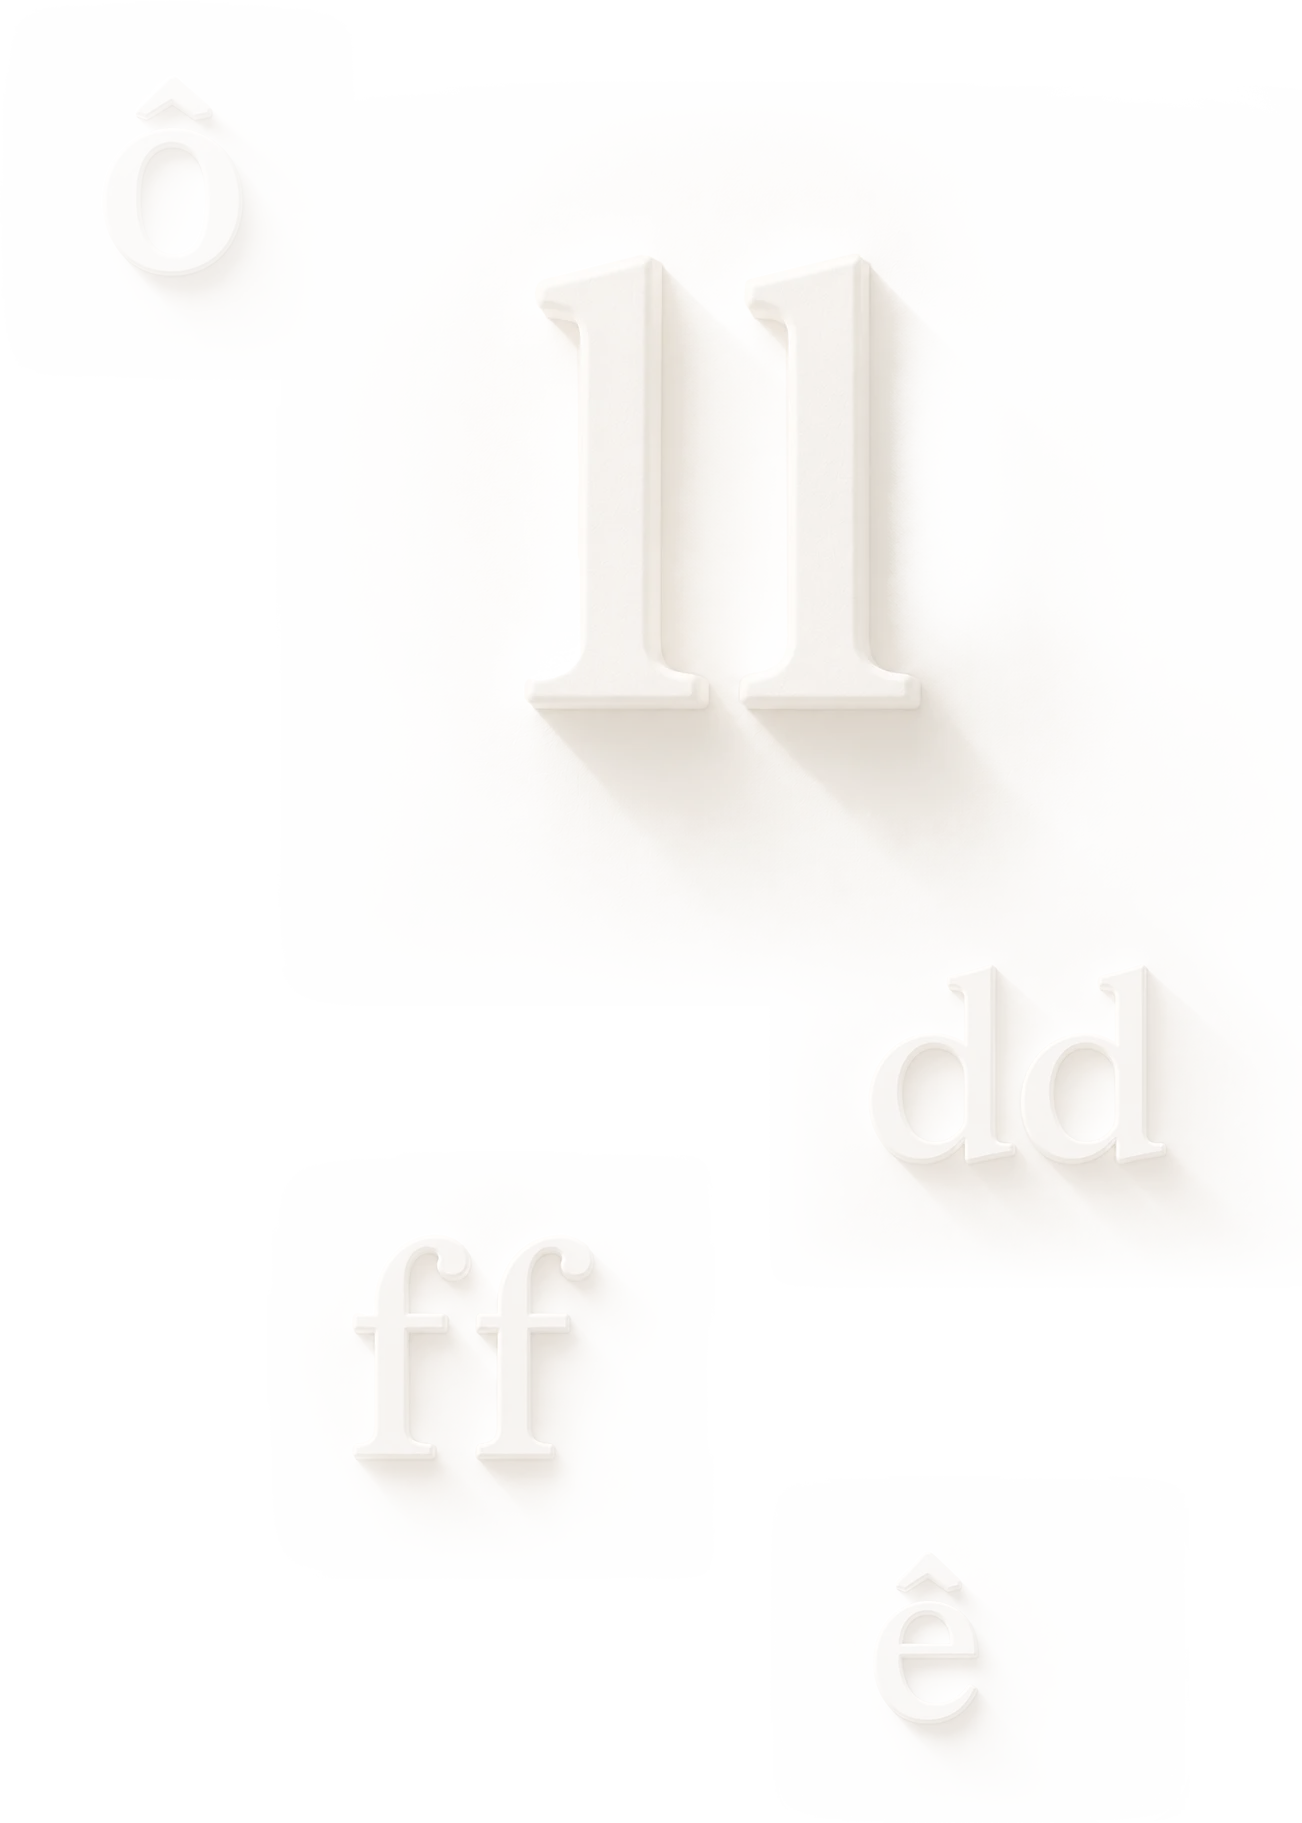
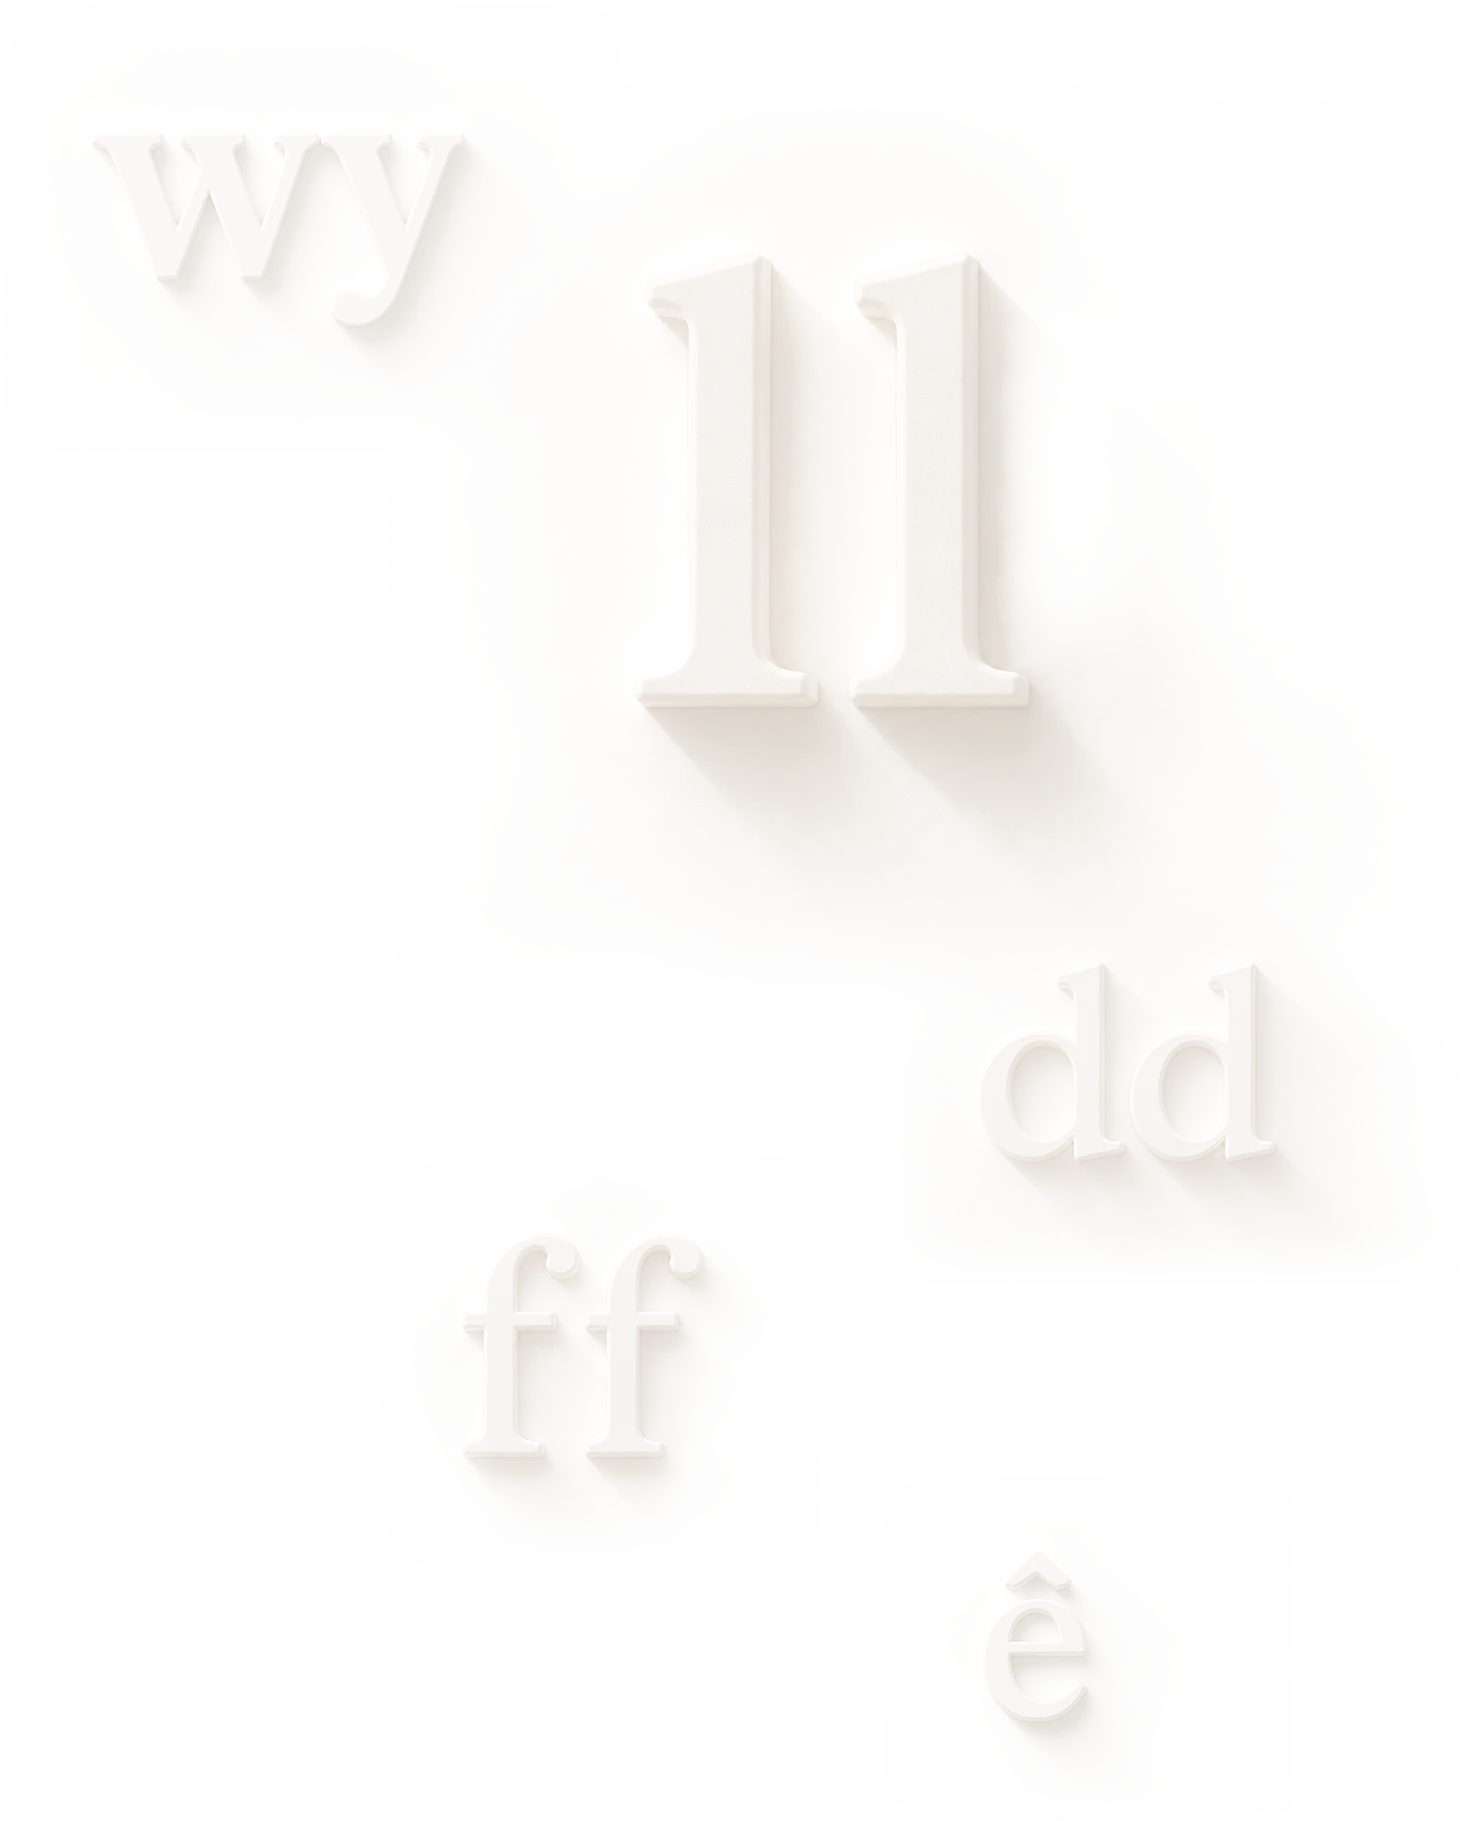
Update homepage heading and mobile background

diff --git a/src/styles.css b/src/styles.css
@@ -1601,7 +1601,24 @@
 
 .home-shell .home-heading-first{
   font-size:52px;
-  line-height:1.16;
+  line-height:1.08;
+}
+
+.home-heading-primary-line,
+.home-heading-method-line{
+  display:block;
+  color:inherit;
+  font-weight:900;
+}
+
+.home-heading-primary-line{
+  white-space:nowrap;
+}
+
+.home-heading-method-line{
+  margin-top:.04em;
+  font-size:.94em;
+  letter-spacing:-.025em;
 }
 
 .home-support{
@@ -1809,6 +1826,14 @@
   }
 }
 
+@media (min-width:521px) and (max-width:899px){
+  .home-copy .home-heading-first{
+    font-size:clamp(34px,5.7vw,46px)!important;
+    line-height:1.07;
+    letter-spacing:-.048em;
+  }
+}
+
 @media (max-width:520px){
   .homepage-utility{
     top:calc(18px + env(safe-area-inset-top));
@@ -1890,10 +1915,14 @@
   }
 
   .home-copy .home-heading-first{
-    font-size:37px!important;
+    font-size:30px!important;
     font-weight:900;
-    line-height:1.16;
+    line-height:1.08;
     letter-spacing:-.05em;
+  }
+
+  .home-heading-primary-line{
+    white-space:normal;
   }
 
   .home-support{
@@ -2008,7 +2037,7 @@
   }
 
   .home-copy .home-heading-first{
-    font-size:34px!important;
+    font-size:28px!important;
   }
 
   .home-shell-returning .home-heading,
@@ -2026,6 +2055,17 @@
 
   .home-footer{
     font-size:14px;
+  }
+}
+
+@media (max-width:340px){
+  .home-copy .home-heading-first{
+    font-size:26px!important;
+  }
+
+  .home-heading-primary-line{
+    white-space:normal;
+    text-wrap:balance;
   }
 }
 
@@ -5406,7 +5446,35 @@
   position:relative;
   isolation:isolate;
   overflow-x:clip;
-  background:#f6f5f2;
+  background-color:#f6f5f2;
+  background-image:
+    linear-gradient(rgba(246,245,242,.84),rgba(246,245,242,.84)),
+    url('/background-texture.webp');
+  background-repeat:repeat;
+  background-size:auto;
+  background-position:top left;
+}
+
+.public-app-with-shared-background{
+  position:relative;
+  isolation:isolate;
+  overflow-x:clip;
+  background-color:#f6f5f2;
+  background-image:
+    linear-gradient(rgba(246,245,242,.84),rgba(246,245,242,.84)),
+    url('/background-texture.webp');
+  background-repeat:repeat;
+  background-size:auto;
+  background-position:top left;
+}
+
+.public-app-with-shared-background .screen-stage{
+  position:relative;
+  z-index:1;
+}
+
+.public-app.public-app-with-shared-background :is(.app-bg,.practice-app,.end-bg,.how-page){
+  background:transparent;
 }
 
 .home-background-scene{
@@ -5419,13 +5487,7 @@
 }
 
 .home-background-texture{
-  position:absolute;
-  inset:0;
-  background-image:url('/background-texture.webp');
-  background-repeat:no-repeat;
-  background-position:center top;
-  background-size:max(1492px, 100vw) auto;
-  opacity:.34;
+  display:none;
 }
 
 .home-background-glow{
@@ -5442,6 +5504,21 @@
     transparent 72%
   );
   opacity:.82;
+}
+
+.home-mobile-letter-background{
+  display:none;
+  position:absolute;
+  top:0;
+  left:0;
+  width:100%;
+  aspect-ratio:870 / 800;
+  background-image:url('/bg-3d-letters-mobile.webp');
+  background-position:top center;
+  background-repeat:no-repeat;
+  background-size:100% auto;
+  pointer-events:none;
+  user-select:none;
 }
 
 .home-letter-stage{
@@ -5538,6 +5615,14 @@
     opacity:.6;
   }
 
+  .home-mobile-letter-background{
+    display:block;
+  }
+
+  .home-letter-stage{
+    display:none;
+  }
+
   .home-letter-image-left{
     width:clamp(300px, 82vw, 420px);
     left:clamp(-150px, -24vw, -90px);
@@ -5567,10 +5652,6 @@
     width:520px;
     height:360px;
     opacity:.5;
-  }
-
-  .home-letter-stage{
-    display:none;
   }
 
   .home-letter-image-left{
@@ -5802,6 +5883,16 @@
 
 .public-app[data-theme="dark"] .home-background-scene{
   display:none;
+}
+
+.public-app[data-theme="dark"].public-app-with-shared-background{
+  background:var(--bg-app);
+}
+
+.public-app[data-theme="dark"].public-app-with-shared-background :is(.app-bg,.practice-app,.end-bg,.how-page){
+  background:
+    radial-gradient(circle at 50% 18%, var(--accent-red-haze), transparent 28%),
+    var(--bg-app);
 }
 
 .public-app[data-theme="dark"] .modal,

diff --git a/src/App.tsx b/src/App.tsx
@@ -898,8 +898,11 @@ export default function App() {
     />
   );
 
+  const showSharedPublicBackground = activeScreen !== 'home';
+
   return (
-    <div className="public-app" data-theme={storage.settings.theme}>
+    <div className={`public-app ${showSharedPublicBackground ? 'public-app-with-shared-background' : ''}`} data-theme={storage.settings.theme}>
+      {showSharedPublicBackground && <PublicBackgroundTreatment />}
       <ScreenTransition screen={activeScreen}>
         {screenContent}
       </ScreenTransition>
@@ -914,6 +917,32 @@ export default function App() {
           learningMethodOptions={learningMethodOptions}
         />
       )}
+    </div>
+  );
+}
+
+function PublicBackgroundTreatment() {
+  return (
+    <div className="home-background-scene" aria-hidden="true">
+      <div className="home-background-texture" />
+      <div className="home-background-glow" />
+      <div className="home-mobile-letter-background" />
+      <div className="home-letter-stage">
+        <img
+          className="home-letter-image home-letter-image-left"
+          src="/bg-3d-letters-left.webp"
+          alt=""
+          aria-hidden="true"
+          draggable={false}
+        />
+        <img
+          className="home-letter-image home-letter-image-right"
+          src="/bg-3d-letters-right.webp"
+          alt=""
+          aria-hidden="true"
+          draggable={false}
+        />
+      </div>
     </div>
   );
 }

diff --git a/src/components/Home.tsx b/src/components/Home.tsx
@@ -93,6 +93,7 @@ export function Home({
       <div className="home-background-scene" aria-hidden="true">
         <div className="home-background-texture" />
         <div className="home-background-glow" />
+        <div className="home-mobile-letter-background" />
         <div className="home-letter-stage">
           <img
             className="home-letter-image home-letter-image-left"
@@ -134,7 +135,10 @@ export function Home({
         <div className={`home-copy ${isFirst ? 'home-copy-first' : ''}`}>
           <h1 className={`home-heading ${isFirst ? 'home-heading-first' : ''}`}>
             {isFirst ? (
-              <><span>{t('home.firstHeadingLine1')}</span><br /><span>{t('home.firstHeadingLine2')}</span></>
+              <>
+                <span className="home-heading-primary-line">{t('home.firstHeadingLine1')}</span>
+                <span className="home-heading-method-line">{t('home.firstHeadingLine2')}</span>
+              </>
             ) : homeHeading}
           </h1>
 

diff --git a/src/i18n/cy.ts b/src/i18n/cy.ts
@@ -4,8 +4,8 @@ export const cy = {
     switchToWelsh: 'Newid iaith y rhyngwyneb i Gymraeg'
   },
   home: {
-    firstHeadingLine1: 'Teipiwch beth rydych yn ei glywed.',
-    firstHeadingLine2: 'Dysgwch sillafu Cymraeg.',
+    firstHeadingLine1: 'Gwella sillafu Cymraeg.',
+    firstHeadingLine2: 'Gwrando. Cofio. Sillafu.',
     focusTricky: 'Canolbwyntiwch ar eiriau anodd',
     continueLearning: 'Parhau i ddysgu',
     startPractice: 'Dechrau ymarfer sillafu',

diff --git a/src/i18n/en.ts b/src/i18n/en.ts
@@ -4,8 +4,8 @@ export const en = {
     switchToWelsh: 'Switch interface language to Welsh'
   },
   home: {
-    firstHeadingLine1: 'Type what you hear.',
-    firstHeadingLine2: 'Learn Welsh spelling.',
+    firstHeadingLine1: 'Improve Welsh spelling.',
+    firstHeadingLine2: 'Listen. Recall. Spell.',
     focusTricky: 'Focus on tricky words',
     continueLearning: 'Continue learning',
     startPractice: 'Start spelling practice',